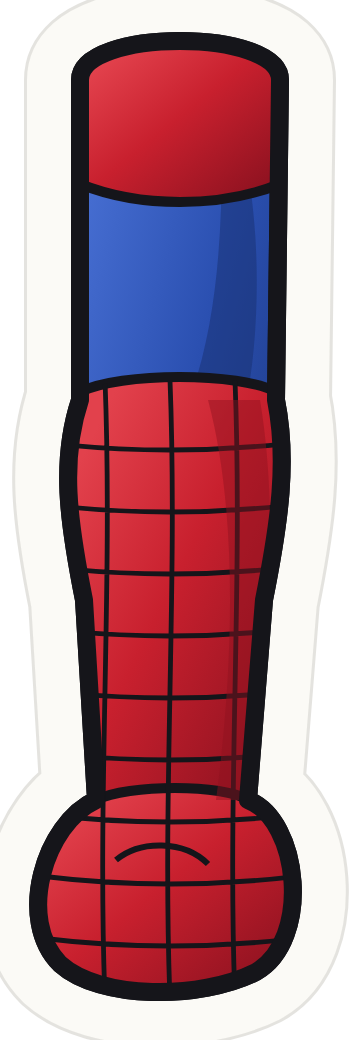
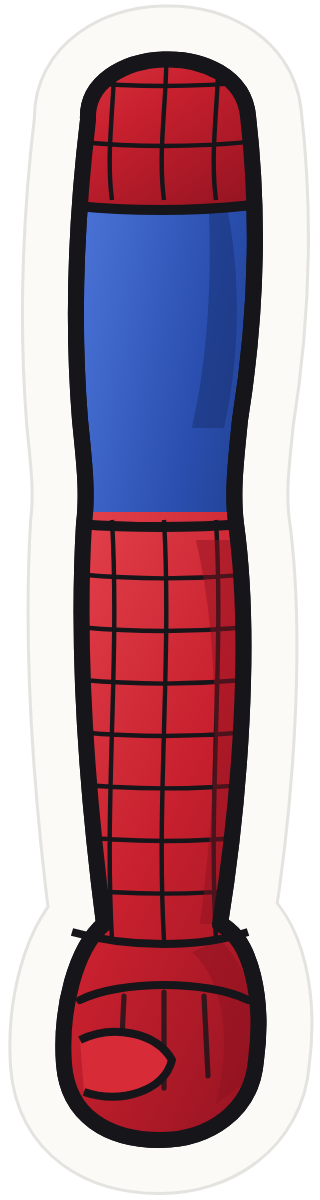
Spider-Man artwork v2: narrower torso, smaller head and lenses, new anatomical arms with gloved fists, shaped legs and boots
Claude-Session: https://claude.ai/code/session_0198385Gymj8D5eAjyBu1iwV

diff --git a/tools/art/spiderman.py b/tools/art/spiderman.py
@@ -54,14 +54,15 @@ HEAD = ("M200 34 C292 34 352 104 352 206 C352 296 318 372 276 426 C254 454 228 4
         "C172 470 146 454 124 426 C82 372 48 296 48 206 C48 104 108 34 200 34 Z")
 
 
-def lens(side):
-    # teardrop lens sweeping up and out from the bridge of the nose
+def lens(side, k=0.78):
+    # teardrop lens sweeping up and out from the bridge of the nose (k scales it around the lens center)
     s = 1 if side > 0 else -1
-    def X(x): return 200 + s * x
-    path = (f"M{X(18)} 300 C{X(14)} 262 {X(40)} 214 {X(88)} 192 C{X(120)} 178 {X(150)} 186 {X(146)} 214 "
-            f"C{X(140)} 256 {X(104)} 300 {X(62)} 318 C{X(40)} 326 {X(20)} 318 {X(18)} 300 Z")
-    hi = (f"M{X(60)} 236 C{X(78)} 214 {X(104)} 204 {X(122)} 206")
-    return (f'<path d="{path}" fill="{INK}" stroke="{INK}" stroke-width="30" stroke-linejoin="round"/>'
+    def X(x): return 200 + s * (82 + (x - 82) * k)
+    def Y(y): return 255 + (y - 255) * k
+    path = (f"M{X(18)} {Y(300)} C{X(14)} {Y(262)} {X(40)} {Y(214)} {X(88)} {Y(192)} C{X(120)} {Y(178)} {X(150)} {Y(186)} {X(146)} {Y(214)} "
+            f"C{X(140)} {Y(256)} {X(104)} {Y(300)} {X(62)} {Y(318)} C{X(40)} {Y(326)} {X(20)} {Y(318)} {X(18)} {Y(300)} Z")
+    hi = (f"M{X(60)} {Y(236)} C{X(78)} {Y(214)} {X(104)} {Y(204)} {X(122)} {Y(206)}")
+    return (f'<path d="{path}" fill="{INK}" stroke="{INK}" stroke-width="22" stroke-linejoin="round"/>'
             f'<path d="{path}" fill="url(#gLens)" stroke="{INK}" stroke-width="6" stroke-linejoin="round"/>'
             f'<path d="{hi}" fill="none" stroke="#ffffff" stroke-width="7" stroke-linecap="round" opacity="0.9"/>')
 
@@ -91,6 +92,25 @@ CHEST = ("M66 46 C124 28 276 28 334 46 C350 56 350 88 340 118 C318 170 276 206 2
 BELT = "M108 360 C170 352 230 352 292 360 L296 430 C230 440 170 440 104 430 Z"
 
 
+def narrow(path, k=0.8, cx=200):
+    """Scale a path's x coordinates toward cx (keeps stroke widths even, unlike an SVG transform)."""
+    import re
+    toks = re.findall(r"[A-Za-z]|-?\d+\.?\d*", path)
+    out, i, cmd = [], 0, None
+    nums = []
+    for t in toks:
+        if t.isalpha():
+            cmd = t; out.append(t); nums = []
+        else:
+            nums.append(float(t))
+            if len(nums) % 2 == 1: out.append(f"{cx + (float(t) - cx) * k:.1f}")
+            else: out.append(t)
+    return " ".join(out)
+
+
+TORSO, CHEST, BELT = narrow(TORSO), narrow(CHEST), narrow(BELT)
+
+
 def spider(cx, cy, s):
     legs = [
         [(8, -30), (60, -70), (128, -96)], [(10, -18), (78, -34), (150, -30)],
@@ -109,32 +129,30 @@ def spider(cx, cy, s):
 
 
 def torso(front):
-    defs = (f'<clipPath id="cc"><path d="{CHEST}"/></clipPath><clipPath id="bc"><path d="{BELT}"/></clipPath>')
+    defs = (f'<clipPath id="cc"><path d="{CHEST}"/></clipPath><clipPath id="bc"><path d="{BELT}"/></clipPath><clipPath id="tc"><path d="{TORSO}"/></clipPath>')
     cy = 118 if front else 130
     w = web(200, cy, 14, [34, 68, 104, 142, 182, 224], 300, bend=0.05, a0=-math.pi / 2, width=2.2, squash=1.0)
-    belt_web = "".join(f'<path d="M{110 + i * 23} 352 L{108 + i * 23.5} 440" stroke="{INK}" stroke-width="2.2"/>' for i in range(9)) + \
+    belt_web = "".join(f'<path d="M{200 + (110 + i * 23 - 200) * 0.8:.1f} 352 L{200 + (108 + i * 23.5 - 200) * 0.8:.1f} 440" stroke="{INK}" stroke-width="2.2"/>' for i in range(9)) + \
         f'<path d="M100 396 C170 404 230 404 300 396" fill="none" stroke="{INK}" stroke-width="2.2"/>'
-    shading = (f'<path d="M300 60 C350 90 340 200 300 290 C290 330 290 380 296 430 L262 446 C270 380 272 320 286 270 C318 190 326 110 300 60 Z" fill="{BLUE_D}" opacity="0.55"/>'
-               f'<path d="M84 70 C64 110 74 170 96 220" fill="none" stroke="{BLUE_L}" stroke-width="8" stroke-linecap="round" opacity="0.7"/>')
+    shading = (f'<path d="{narrow("M300 60 C350 90 340 200 300 290 C290 330 290 380 296 430 L262 446 C270 380 272 320 286 270 C318 190 326 110 300 60 Z")}" fill="{BLUE_D}" opacity="0.55"/>'
+               f'<path d="{narrow("M84 70 C64 110 74 170 96 220")}" fill="none" stroke="{BLUE_L}" stroke-width="8" stroke-linecap="round" opacity="0.7"/>')
     muscles = "" if not front else (
         f'<path d="M200 150 L200 300" stroke="{INK}" stroke-width="3" opacity="0.5"/>'
         f'<path d="M130 120 C160 150 180 156 200 150 C220 156 240 150 270 120" fill="none" stroke="{INK}" stroke-width="3" opacity="0.45"/>')
     body = cutout(TORSO, "url(#gBlue)", ink=10, extra=
                   shading +
                   f'<path d="{CHEST}" fill="url(#gRed)" stroke="{INK}" stroke-width="5"/>'
-                  f'<g clip-path="url(#cc)">{w}<path d="M290 60 C320 120 280 200 240 260 L232 312 L250 312 C262 240 330 150 300 60 Z" fill="{RED_D}" opacity="0.4"/></g>'
+                  f'<g clip-path="url(#cc)">{w}<path d="{narrow("M290 60 C320 120 280 200 240 260 L232 312 L250 312 C262 240 330 150 300 60 Z")}" fill="{RED_D}" opacity="0.4"/></g>'
                   f'<path d="{BELT}" fill="url(#gRed)" stroke="{INK}" stroke-width="5"/><g clip-path="url(#bc)">{belt_web}</g>'
-                  + muscles + spider(200, 150 if front else 168, 0.85 if front else 1.25) +
+                  + muscles + '<g clip-path="url(#tc)">' + spider(200, 150 if front else 168, 0.85 if front else 1.25) + '</g>' +
                   f'<path d="{TORSO}" fill="none" stroke="{INK}" stroke-width="10" stroke-linejoin="round"/>')
     return svg(400, 480, body, defs)
 
 
-# ---------------- ARM (shoulder to fist) / LEG (hip to boot) ----------------
-ARM = ("M40 40 C40 14 140 14 140 40 L138 200 C144 230 140 260 132 300 L124 400 C150 410 156 470 128 486 "
-       "C100 500 50 500 30 482 C8 460 22 412 48 400 L42 300 C34 260 30 230 40 200 Z")
-FORE = "M40 196 C60 186 120 186 138 196 C144 230 140 260 132 300 L124 400 C110 406 64 406 48 400 L42 300 C34 260 30 230 40 196 Z"
-FIST = "M48 400 C64 392 112 392 124 400 C150 410 156 470 128 486 C100 500 50 500 30 482 C8 460 22 412 48 400 Z"
-CAP = "M40 40 C40 14 140 14 140 40 L140 92 C110 104 70 104 40 92 Z"
+# ---------------- ARM (shoulder to gloved fist) / LEG (hip to boot) ----------------
+ARM = ("M44 60 C42 22 120 18 124 58 C130 110 128 160 120 210 C118 230 116 246 118 262 C126 320 120 400 110 462 "
+       "C126 470 132 500 128 530 C126 556 104 570 80 570 C54 570 34 558 32 532 C30 504 38 474 52 462 "
+       "C44 400 38 330 42 262 C44 246 42 230 40 210 C36 160 38 110 44 60 Z")
 
 
 def grid_lines(x0, x1, y0, y1, cols, rows, curve=8):
@@ -145,35 +163,52 @@ def grid_lines(x0, x1, y0, y1, cols, rows, curve=8):
     for j in range(1, rows):
         y = y0 + (y1 - y0) * j / rows
         d.append(f"M{x0} {y:.1f}Q{(x0 + x1) / 2:.1f} {y + curve:.1f} {x1} {y:.1f}")
-    return f'<path d="{"".join(d)}" fill="none" stroke="{INK}" stroke-width="2.4"/>'
+    return f'<path d="{"".join(d)}" fill="none" stroke="{INK}" stroke-width="2.2"/>'
 
 
 def arm():
-    defs = f'<clipPath id="fc"><path d="{FORE}"/><path d="{FIST}"/></clipPath>'
-    body = cutout(ARM, "url(#gBlue)", ink=9, extra=
-                  f'<path d="M110 40 C130 80 132 150 124 196 L96 196 C112 150 112 90 110 40 Z" fill="{BLUE_D}" opacity="0.5"/>'
-                  f'<path d="{CAP}" fill="url(#gRed)" stroke="{INK}" stroke-width="5"/>'
-                  f'<path d="{FORE}" fill="url(#gRed)" stroke="{INK}" stroke-width="5"/><path d="{FIST}" fill="url(#gRed)" stroke="{INK}" stroke-width="5"/>'
-                  f'<g clip-path="url(#fc)">{grid_lines(20, 150, 190, 500, 4, 10)}<path d="M104 200 C120 260 116 340 108 400 L124 400 C134 330 140 260 130 200 Z" fill="{RED_D}" opacity="0.45"/></g>'
-                  f'<path d="M58 430 C70 420 92 420 104 432" fill="none" stroke="{INK}" stroke-width="3"/>'
-                  f'<path d="{ARM}" fill="none" stroke="{INK}" stroke-width="9" stroke-linejoin="round"/>')
-    return svg(180, 520, body, defs)
+    defs = (f'<clipPath id="ac"><path d="{ARM}"/></clipPath>')
+    red_low = f'<rect x="0" y="256" width="160" height="330" fill="url(#gRed)"/>'
+    cap = f'<path d="M0 0 H160 V96 C120 108 40 108 0 96 Z" fill="url(#gRed)"/>'
+    body = cutout(ARM, "url(#gBlue)", ink=8, extra=
+                  f'<g clip-path="url(#ac)">'
+                  f'<path d="M100 60 C122 110 122 170 112 214 L96 214 C106 170 108 110 100 60 Z" fill="{BLUE_D}" opacity="0.5"/>'
+                  f'{cap}<path d="M0 96 C40 108 120 108 160 96" fill="none" stroke="{INK}" stroke-width="5"/>'
+                  f'{red_low}<path d="M0 256 C40 266 120 266 160 256" fill="none" stroke="{INK}" stroke-width="5"/>'
+                  f'{grid_lines(30, 134, 260, 470, 4, 8, 6)}{grid_lines(30, 134, 10, 100, 4, 3, 6)}'
+                  f'<path d="M98 270 C112 330 108 400 100 462 L116 462 C124 400 126 330 116 270 Z" fill="{RED_D}" opacity="0.45"/>'
+                  f'<path d="M96 476 C112 490 116 520 108 552 L124 540 C132 510 126 486 110 470 Z" fill="{RED_D}" opacity="0.5"/>'
+                  f'</g>'
+                  # gloved fist: knuckle ridge, finger creases, thumb wrapped over the front
+                  f'<path d="M40 500 C60 490 104 490 124 500" fill="none" stroke="{INK}" stroke-width="4" stroke-linecap="round"/>'
+                  f'<path d="M62 498 L60 540 M82 496 L82 544 M102 498 L104 538" fill="none" stroke="{INK}" stroke-width="2.6" stroke-linecap="round" opacity="0.8"/>'
+                  f'<path d="M40 520 C56 512 78 516 86 530 C82 546 60 552 42 546" fill="#d72b38" stroke="{INK}" stroke-width="4" stroke-linejoin="round"/>'
+                  f'<path d="M36 466 C64 474 100 474 124 466" fill="none" stroke="{INK}" stroke-width="4"/>'
+                  f'<path d="{ARM}" fill="none" stroke="{INK}" stroke-width="8" stroke-linejoin="round"/>')
+    return svg(160, 600, body, defs)
 
 
-LEG = ("M24 30 C24 10 156 10 156 30 L150 250 C150 290 140 340 136 400 L138 500 C170 506 178 548 150 556 "
-       "L30 556 C14 548 18 506 40 500 L44 400 C40 340 30 290 30 250 Z")
-SHIN = "M30 250 C60 262 120 262 150 250 C150 290 140 340 136 400 L138 500 C170 506 178 548 150 556 L30 556 C14 548 18 506 40 500 L44 400 C40 340 30 290 30 250 Z"
+LEG = ("M26 30 C24 8 158 8 156 30 C160 120 150 210 140 290 C138 304 138 316 142 330 C156 390 148 450 132 520 "
+       "C140 540 154 560 156 584 C158 600 150 608 138 608 L42 608 C30 608 22 600 24 584 C26 560 40 540 48 520 "
+       "C32 450 26 390 40 330 C44 316 44 304 40 290 C30 210 22 120 26 30 Z")
 
 
 def leg():
-    defs = f'<clipPath id="sc"><path d="{SHIN}"/></clipPath>'
-    body = cutout(LEG, "url(#gBlue)", ink=9, extra=
-                  f'<path d="M120 30 C146 90 146 190 138 250 L110 256 C124 190 126 90 120 30 Z" fill="{BLUE_D}" opacity="0.5"/>'
-                  f'<path d="{SHIN}" fill="url(#gRed)" stroke="{INK}" stroke-width="5"/>'
-                  f'<g clip-path="url(#sc)">{grid_lines(14, 170, 252, 556, 4, 10)}<path d="M112 262 C128 330 122 420 118 500 L140 500 C140 420 150 330 146 262 Z" fill="{RED_D}" opacity="0.45"/></g>'
-                  f'<path d="M24 546 L156 546 L152 558 L28 558 Z" fill="{BLUE}" stroke="{INK}" stroke-width="4"/>'
-                  f'<path d="{LEG}" fill="none" stroke="{INK}" stroke-width="9" stroke-linejoin="round"/>')
-    return svg(180, 580, body, defs)
+    defs = f'<clipPath id="lc"><path d="{LEG}"/></clipPath>'
+    body = cutout(LEG, "url(#gBlue)", ink=8, extra=
+                  f'<g clip-path="url(#lc)">'
+                  f'<path d="M118 30 C146 100 146 200 134 290 L112 292 C124 200 126 100 118 30 Z" fill="{BLUE_D}" opacity="0.5"/>'
+                  f'<rect x="0" y="300" width="180" height="320" fill="url(#gRed)"/>'
+                  f'<path d="M0 300 C50 312 130 312 180 300" fill="none" stroke="{INK}" stroke-width="5"/>'
+                  f'{grid_lines(26, 156, 304, 560, 4, 9, 7)}'
+                  f'<path d="M112 330 C134 400 128 470 116 520 L132 520 C148 460 152 400 134 330 Z" fill="{RED_D}" opacity="0.45"/>'
+                  f'<path d="M20 586 L160 586 L160 620 L20 620 Z" fill="{BLUE}"/><path d="M20 586 L160 586" stroke="{INK}" stroke-width="4"/>'
+                  f'</g>'
+                  # boot: ankle crease and a rounded toe cap
+                  f'<path d="M48 520 C76 530 106 530 132 520" fill="none" stroke="{INK}" stroke-width="4"/>'
+                  f'<path d="M44 562 C70 548 112 548 138 562" fill="none" stroke="{INK}" stroke-width="3.5"/>'
+                  f'<path d="{LEG}" fill="none" stroke="{INK}" stroke-width="8" stroke-linejoin="round"/>')
+    return svg(180, 630, body, defs)
 
 
 files = {"Head_Front": head(True), "Head_Back": head(False), "Torso_Front": torso(True), "Torso_Back": torso(False), "Arm": arm(), "Leg": leg()}
